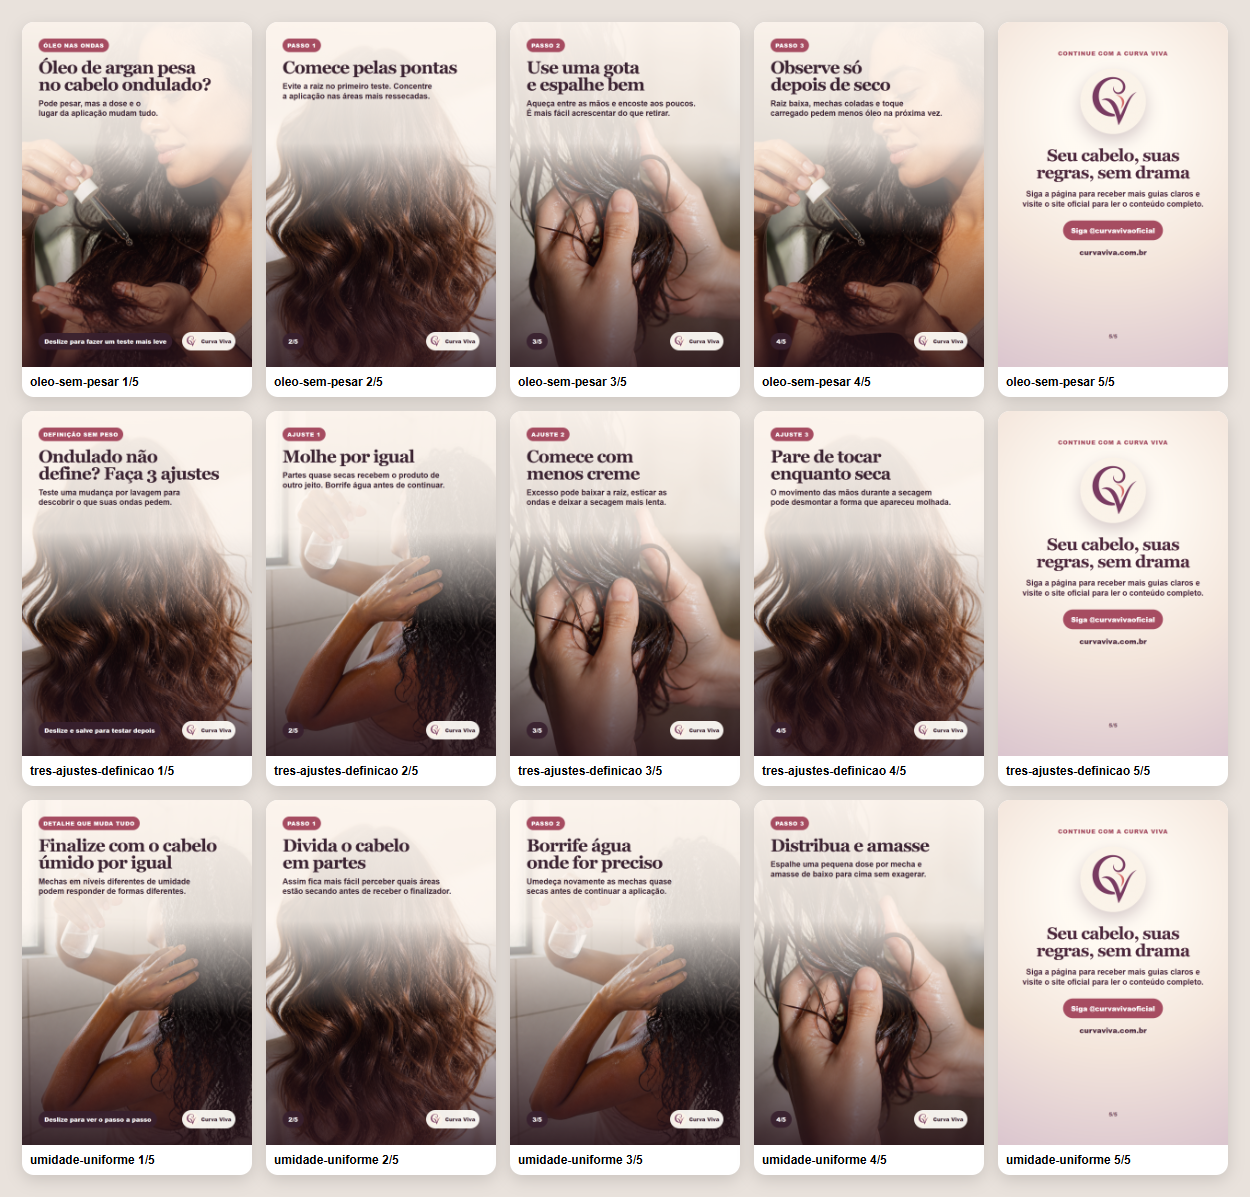
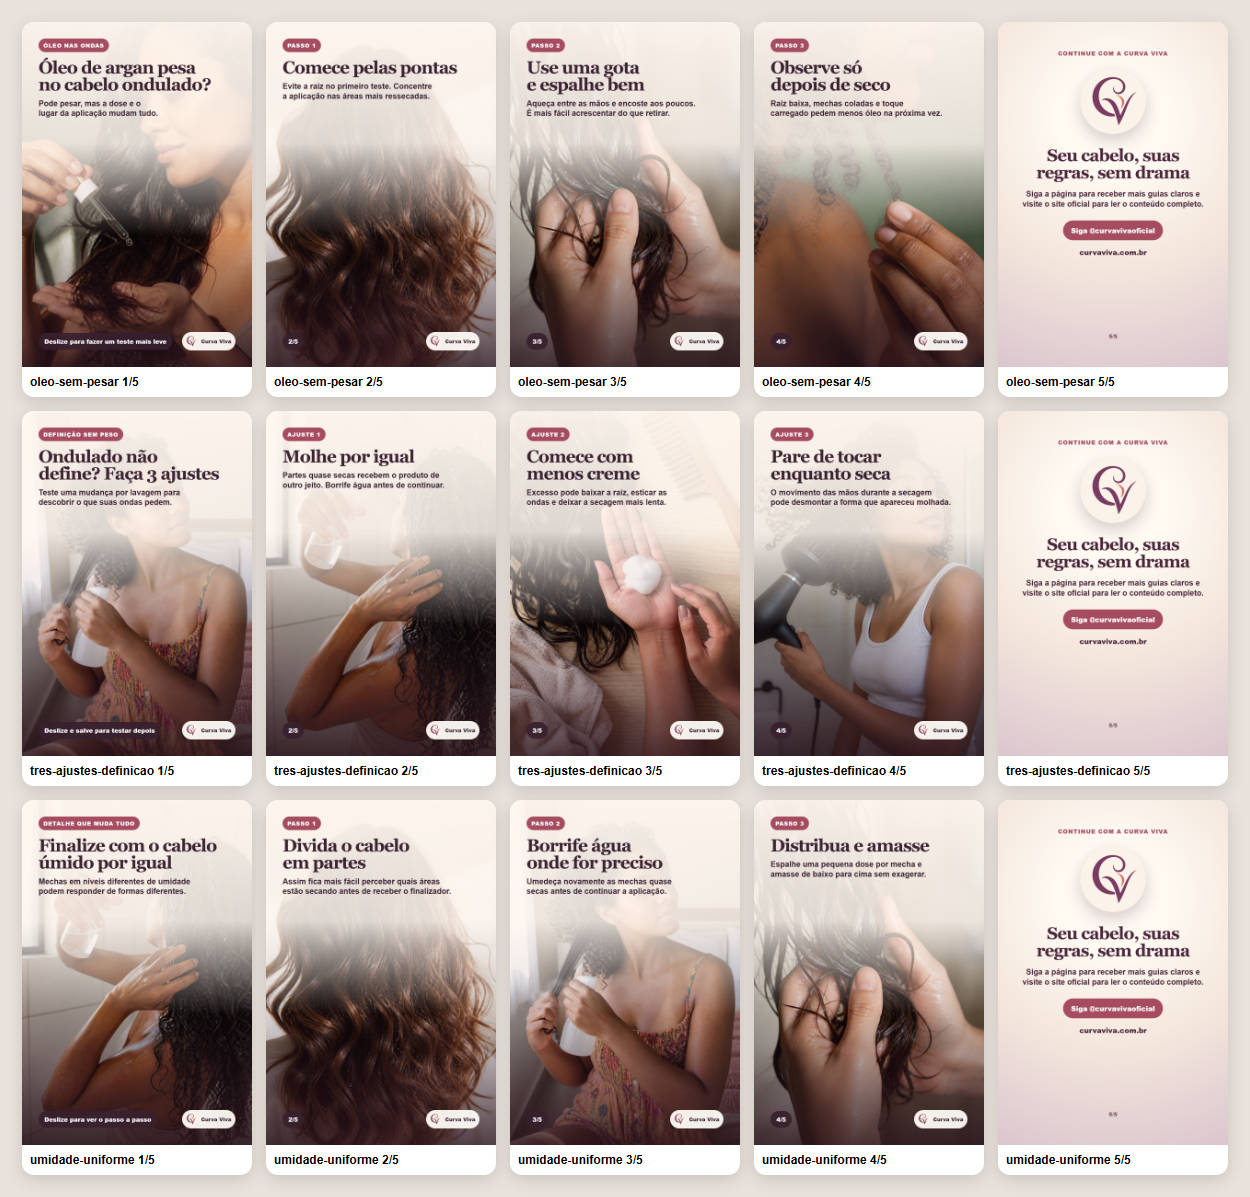
Corrige carrosséis recentes e registra auditoria

diff --git a/midia-social/tiktok/2026-08-17-ondulado-nao-define/carrossel.html b/midia-social/tiktok/2026-08-17-ondulado-nao-define/carrossel.html
@@ -45,43 +45,43 @@
     <script>
       const cards = [
         {
-          photo: 'foto-capa.png', eyebrow: 'CABELO ONDULADO',
+          photo: '../../pinterest/correcao-2026-08-17/fotos/07-day-after-janela.png', eyebrow: 'CABELO ONDULADO',
           title: 'As ondas aparecem molhadas e somem quando secam?',
           body: 'Antes de trocar o creme, veja <span class="accent">5 ajustes</span> que valem um teste.',
           action: 'Deslize e salve para a próxima lavagem'
         },
         {
-          photo: 'foto-secagem.png', eyebrow: 'AJUSTE 1', light: true,
+          photo: '../../pinterest/correcao-2026-08-17/fotos/04-textura-sem-rosto.png', eyebrow: 'AJUSTE 1', light: true,
           title: '<span class="number">01</span>Compare seu cabelo com ele mesmo',
           body: 'Definição não é transformar ondas abertas em cachos fechados. Observe movimento, toque e duração.',
           action: 'Seu formato natural não está errado'
         },
         {
-          photo: 'foto-capa.png', eyebrow: 'AJUSTE 2',
+          photo: '../../pinterest/correcao-2026-08-17/fotos/01-umidade-uniforme.png', eyebrow: 'AJUSTE 2',
           title: '<span class="number">02</span>Finalize todas as partes úmidas',
           body: 'Mechas quase secas recebem produto de forma irregular. Umedeça de novo e trabalhe por partes.',
           action: 'Água ajuda a espalhar o produto'
         },
         {
-          photo: 'foto-produto.png', eyebrow: 'AJUSTE 3', light: true,
+          photo: '../../pinterest/correcao-2026-08-17/fotos/05-mousse-vista-superior.png', eyebrow: 'AJUSTE 3', light: true,
           title: '<span class="number">03</span>Comece com menos creme',
           body: 'Raiz baixa, secagem lenta e ondas alongadas podem indicar excesso. Reduza antes de comprar outro pote.',
           action: 'Acrescente só onde realmente faltar'
         },
         {
-          photo: 'foto-capa.png', eyebrow: 'AJUSTE 4',
+          photo: '../../pinterest/correcao-2026-08-17/fotos/02-close-mecha-umida.png', eyebrow: 'AJUSTE 4',
           title: '<span class="number">04</span>Talvez esteja faltando fixação',
           body: 'Se a onda aparece molhada e some seca, teste uma camada fina de mousse, gel ou gelatina.',
           action: 'Um fixador por vez já permite comparar'
         },
         {
-          photo: 'foto-produto.png', eyebrow: 'AJUSTE 5', light: true,
+          photo: '../../pinterest/correcao-2026-08-17/fotos/08-close-cacho.png', eyebrow: 'AJUSTE 5', light: true,
           title: '<span class="number">05</span>Não penteie depois de formar as ondas',
           body: 'Desembarace antes. Pentear depois de amassar pode separar os grupos e esticar o desenho.',
           action: 'Termine amassando das pontas para a raiz'
         },
         {
-          photo: 'foto-secagem.png', eyebrow: 'NA SECAGEM',
+          photo: '../../pinterest/correcao-2026-08-17/fotos/06-difusor-lateral.png', eyebrow: 'NA SECAGEM',
           title: 'Agora vem a parte difícil: não mexer',
           body: 'Tocar, abrir mechas e mudar o cabelo de lado enquanto seca pode aumentar o frizz e desfazer as ondas.',
           action: 'Espere secar por completo para avaliar'

diff --git a/midia-social/pinterest/2026-08-15-ondulado-nao-define/cartoes.html b/midia-social/pinterest/2026-08-15-ondulado-nao-define/cartoes.html
@@ -26,25 +26,25 @@
     <script>
       const cards = [
         {
-          photo: 'foto-01.png', eyebrow: 'CABELO ONDULADO',
+          photo: '../correcao-2026-08-17/fotos/07-day-after-janela.png', eyebrow: 'CABELO ONDULADO',
           title: 'Suas ondas somem quando secam?',
           body: 'Antes de trocar todos os produtos, teste 3 ajustes simples.',
           action: 'Deslize e salve para a próxima lavagem'
         },
         {
-          photo: 'foto-02.png', eyebrow: 'AJUSTE 1',
+          photo: '../correcao-2026-08-17/fotos/01-umidade-uniforme.png', eyebrow: 'AJUSTE 1',
           title: 'Finalize com o cabelo úmido por igual',
           body: 'Mechas quase secas recebem produto de forma irregular. Umedeça de novo e trabalhe por partes.',
           action: 'Mude apenas uma etapa por lavagem', step: true
         },
         {
-          photo: 'foto-03.png', eyebrow: 'AJUSTE 2',
+          photo: '../correcao-2026-08-17/fotos/05-mousse-vista-superior.png', eyebrow: 'AJUSTE 2',
           title: 'Comece com menos creme',
           body: 'Raiz baixa, secagem lenta e ondas esticadas podem indicar excesso. Reduza a quantidade antes de comprar outro pote.',
           action: 'Compare o resultado só depois de secar', step: true
         },
         {
-          photo: 'foto-04.png', eyebrow: 'AJUSTE 3',
+          photo: '../correcao-2026-08-17/fotos/06-difusor-lateral.png', eyebrow: 'AJUSTE 3',
           title: 'Não toque até o cabelo secar',
           body: 'A onda aparece molhada e some seca? Teste uma fixação leve e deixe o cabelo quieto.',
           action: 'Veja os 8 erros no Curva Viva', step: true

diff --git a/midia-social/pinterest/2026-08-16-oleo-argan-ondulado/cartoes.html b/midia-social/pinterest/2026-08-16-oleo-argan-ondulado/cartoes.html
@@ -32,13 +32,13 @@
     <script>
       const cards = [
         {
-          photo: 'foto-01.png', eyebrow: 'CABELO ONDULADO',
+          photo: '../correcao-2026-08-17/fotos/03-oleo-pontas-perfil.png', eyebrow: 'CABELO ONDULADO',
           title: 'Óleo de argan pesa nas ondas?',
           body: 'Pode pesar, mas a dose e as outras camadas contam mais do que o nome do óleo.',
           action: 'Deslize e salve para testar sem erro'
         },
         {
-          photo: 'foto-02.png', eyebrow: 'COMECE PEQUENO',
+          photo: '../correcao-2026-08-17/fotos/04-textura-sem-rosto.png', eyebrow: 'COMECE PEQUENO',
           title: 'Espalhe primeiro nas mãos',
           body: 'Encoste nas pontas e leve apenas o restante para o comprimento. Deixe a raiz fora do primeiro teste.',
           action: 'Avalie só depois de o cabelo secar', step: true
@@ -50,7 +50,7 @@
           action: 'Confira a análise completa no Curva Viva'
         },
         {
-          photo: 'foto-01.png', eyebrow: 'LEIA O RESULTADO',
+          photo: '../correcao-2026-08-17/fotos/08-close-cacho.png', eyebrow: 'LEIA O RESULTADO',
           title: 'Raiz baixa? Reduza a dose',
           body: 'Pontas ainda ásperas? Mantenha pouco produto, mas concentre onde realmente precisa.',
           action: 'Mude uma coisa por lavagem', step: true

diff --git a/midia-social/AUDITORIA-CARROSSEIS-2026-08-18.md b/midia-social/AUDITORIA-CARROSSEIS-2026-08-18.md
@@ -1,0 +1,47 @@
+# Auditoria de carrosséis, 18 de agosto de 2026
+
+## Escopo
+
+Foram conferidos os carrosséis recentes do Pinterest e do TikTok e toda a fila
+de Pins agendados. A auditoria aplicou as duas regras absolutas: publicar todas
+as imagens planejadas e não repetir pose, expressão facial ou ângulo dentro do
+mesmo carrossel.
+
+## Resultado dos publicados
+
+As quantidades dos seis carrosséis recentes estavam completas, mas todos
+repetiam ao menos uma composição humana. As artes foram renderizadas novamente
+com fotografias diferentes, os substitutos foram publicados e conferidos antes
+da remoção das versões antigas.
+
+### Pinterest
+
+Cada substituto contém exatamente cinco imagens navegáveis:
+
+- `1146236542701525867` → `1146236542701571598`
+- `1146236542701525976` → `1146236542701571900`
+- `1146236542701342527` → `1146236542701572254`
+- `1146236542701459645` → `1146236542701572676`
+- `1146236542701526097` → `1146236542701572782`
+
+### TikTok
+
+- `7675107568791964948` → `7675358039632858376`
+- O substituto contém exatamente oito imagens, está visível para `Todos` e tem
+  o rótulo de conteúdo gerado por IA ativado.
+
+## Agendamentos
+
+O Pinterest mantém 16 Pins agendados. Eles são peças individuais planejadas
+como imagem única, cada uma com um arquivo de mídia e sem indicação visual de
+continuação. Portanto, nenhum agendamento foi apagado ou republicado.
+
+## Verificação
+
+- Contagem antes do upload: 5/5 em cada carrossel do Pinterest e 8 imagens no
+  editor do TikTok.
+- Conferência pública: páginas navegadas após cada publicação.
+- Variedade visual: todas as imagens com pessoa agora usam composição, pose,
+  expressão ou ângulo distintos dentro do respectivo carrossel.
+- Exclusão: cada versão antiga foi removida apenas depois da validação da nova.
+

diff --git a/HISTORICO.md b/HISTORICO.md
@@ -101,6 +101,20 @@ Não precisam ser rediscutidas, salvo se o proprietário mudar de ideia.
 
 ## Mudanças
 
+### 18 de agosto de 2026 — Codex — Carrosséis recentes auditados e republicados
+
+- Cinco carrosséis recentes do Pinterest e um do TikTok tinham a quantidade
+  correta de páginas, mas repetiam composição humana. Todos foram renderizados
+  novamente com pose, expressão e ângulo diferentes, publicados e conferidos
+  integralmente antes da remoção das versões antigas.
+- Os substitutos têm cinco páginas no Pinterest e oito no TikTok. O perfil do
+  Pinterest não mostra mais os cinco IDs antigos, e o TikTok Studio mantém
+  somente a versão nova com privacidade `Todos` e rótulo de conteúdo por IA.
+- Os 16 Pins agendados foram auditados. Todos são peças individuais planejadas
+  como imagem única, sem promessa de continuação, por isso foram preservados.
+- O relatório completo e os IDs substituídos estão em
+  `midia-social/AUDITORIA-CARROSSEIS-2026-08-18.md`.
+
 ### 18 de agosto de 2026 — Codex — Poses repetidas foram proibidas em carrosséis
 
 - Virou regra absoluta usar pose, expressão facial e ângulo diferentes em cada

diff --git a/midia-social/tiktok/2026-08-17-ondulado-nao-define/PUBLICACAO.md b/midia-social/tiktok/2026-08-17-ondulado-nao-define/PUBLICACAO.md
@@ -58,3 +58,16 @@ O TikTok recebeu as oito imagens na ordem correta, o áudio `voices`, de
 por IA foi ativado. Após uma análise automática curta, o painel removeu o
 estado `Conteúdo sob análise`, confirmou a privacidade `Todos` e a página
 pública passou a abrir normalmente. Nenhuma promoção ou cobrança foi criada.
+
+## Republicação por variedade visual, 18 de agosto de 2026
+
+O carrossel foi renderizado novamente com uma composição humana diferente em
+cada página com pessoa. A versão atual é:
+
+https://www.tiktok.com/@curvavivaoficial/photo/7675358039632858376
+
+O editor confirmou oito imagens, a página pública exibiu o indicador `1/8` e o
+conjunto completo, a privacidade ficou em `Todos` e o rótulo de conteúdo gerado
+por IA foi mantido. A versão `7675107568791964948` foi excluída somente depois
+dessas verificações. A republicação usa o som original do perfil; nenhuma
+promoção ou cobrança foi criada.

diff --git a/midia-social/pinterest/correcao-2026-08-17/PUBLICACAO.md b/midia-social/pinterest/correcao-2026-08-17/PUBLICACAO.md
@@ -67,3 +67,14 @@ cinco imagens cada e capas visualmente diferentes.
   enviará email se alguma linha precisar de correção.
 
 Nenhuma campanha, patrocínio, orçamento ou cobrança foi criado.
+
+## Auditoria adicional de 18 de agosto de 2026
+
+A quantidade de cinco páginas estava correta, mas as três versões repetiam
+composições humanas. Elas foram substituídas por artes com pose, expressão e
+ângulo diferentes em cada página com pessoa. Os novos Pins foram conferidos
+página por página antes da exclusão dos anteriores:
+
+- Óleo de argan: https://br.pinterest.com/pin/1146236542701571598/
+- Três ajustes de definição: https://br.pinterest.com/pin/1146236542701571900/
+- Umidade uniforme: https://br.pinterest.com/pin/1146236542701572782/

diff --git a/midia-social/pinterest/2026-08-15-ondulado-nao-define/PUBLICACAO.md b/midia-social/pinterest/2026-08-15-ondulado-nao-define/PUBLICACAO.md
@@ -77,3 +77,10 @@ campanha, impulsionamento, forma de pagamento, orçamento ou cobrança foi criad
 O Pin original de imagem única e o primeiro carrossel de quatro imagens foram
 preservados. O carrossel de cinco imagens também aponta provisoriamente para o
 perfil oficial até a análise do suporte liberar o domínio.
+
+## Republicação por variedade visual, 18 de agosto de 2026
+
+O carrossel de cinco imagens foi renderizado novamente para eliminar poses,
+expressões e ângulos repetidos. A nova versão pública é
+https://br.pinterest.com/pin/1146236542701572254/. As cinco páginas foram
+conferidas na ordem correta antes da exclusão do Pin `1146236542701342527`.

diff --git a/midia-social/pinterest/2026-08-16-oleo-argan-ondulado/PUBLICACAO.md b/midia-social/pinterest/2026-08-16-oleo-argan-ondulado/PUBLICACAO.md
@@ -18,3 +18,10 @@
   `pin-03.png` integra a embalagem real ao círculo rosa, sem o quadrado branco.
   O carrossel corrigido foi conferido publicamente com cinco imagens, e o Pin
   anterior `1146236542701452951` foi excluído após a validação da nova versão.
+
+## Republicação por variedade visual, 18 de agosto de 2026
+
+As imagens humanas foram substituídas para não repetir pose, expressão facial
+ou ângulo. A versão atual é
+https://br.pinterest.com/pin/1146236542701572676/. As cinco páginas foram
+conferidas publicamente antes da exclusão do Pin `1146236542701459645`.
